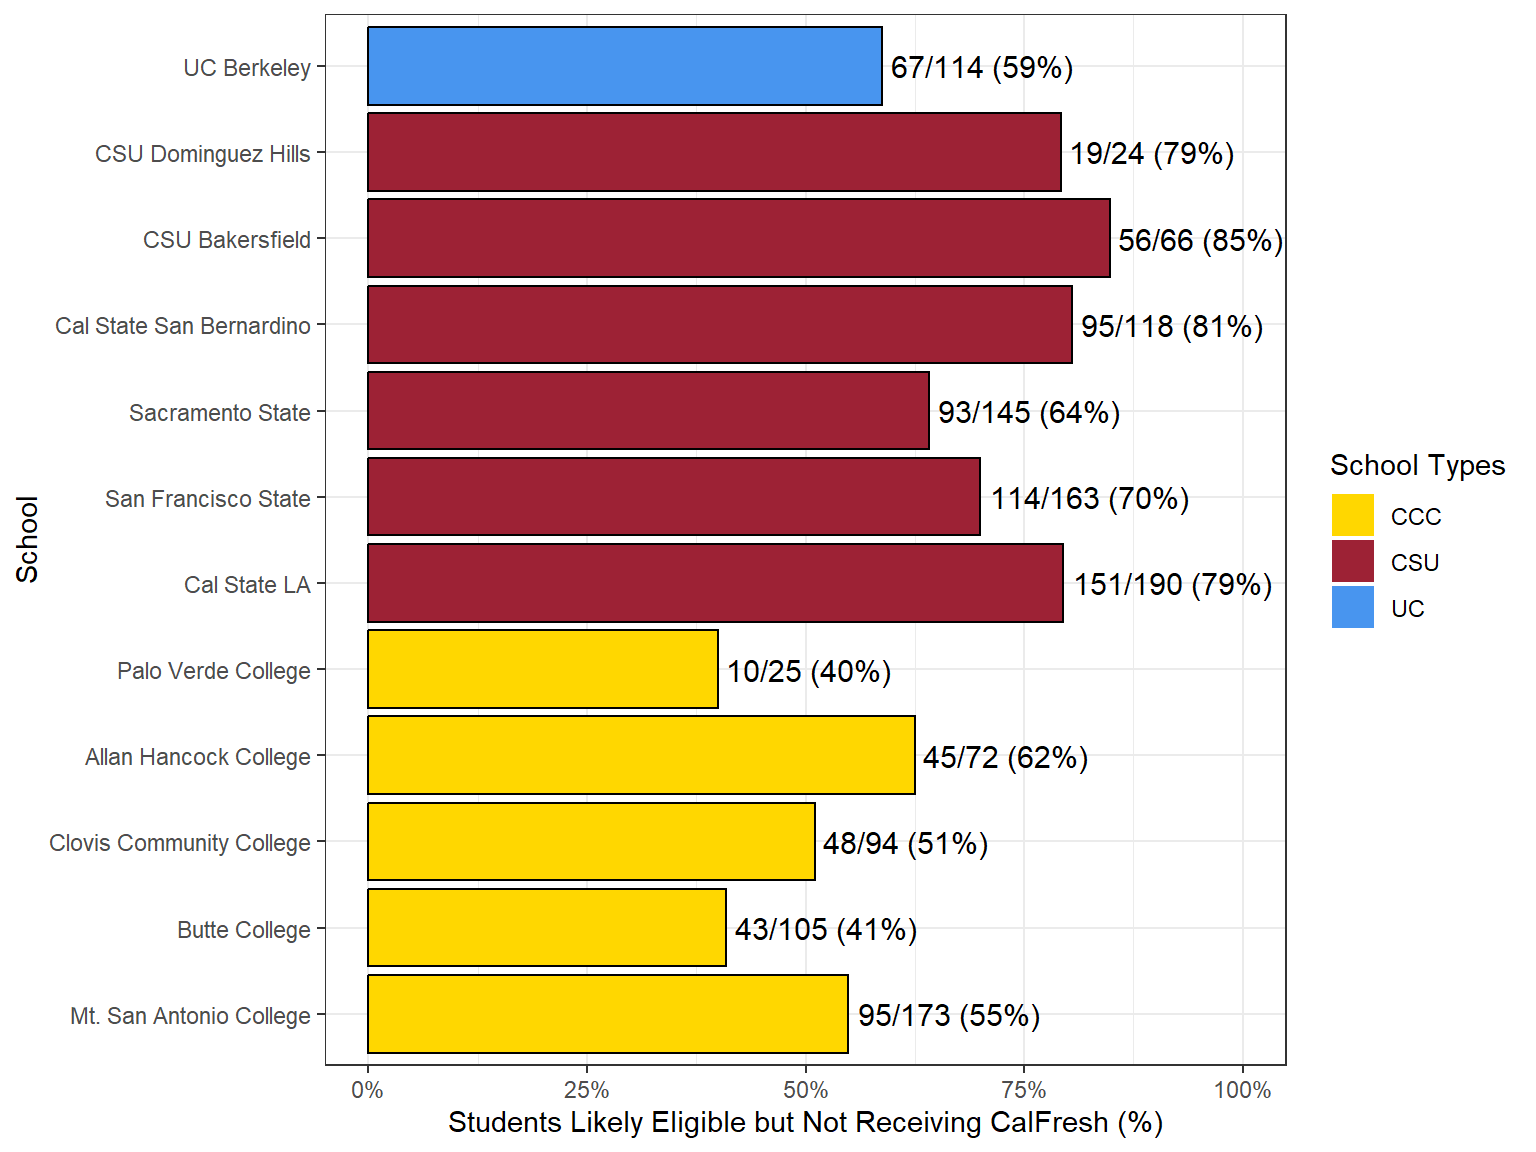
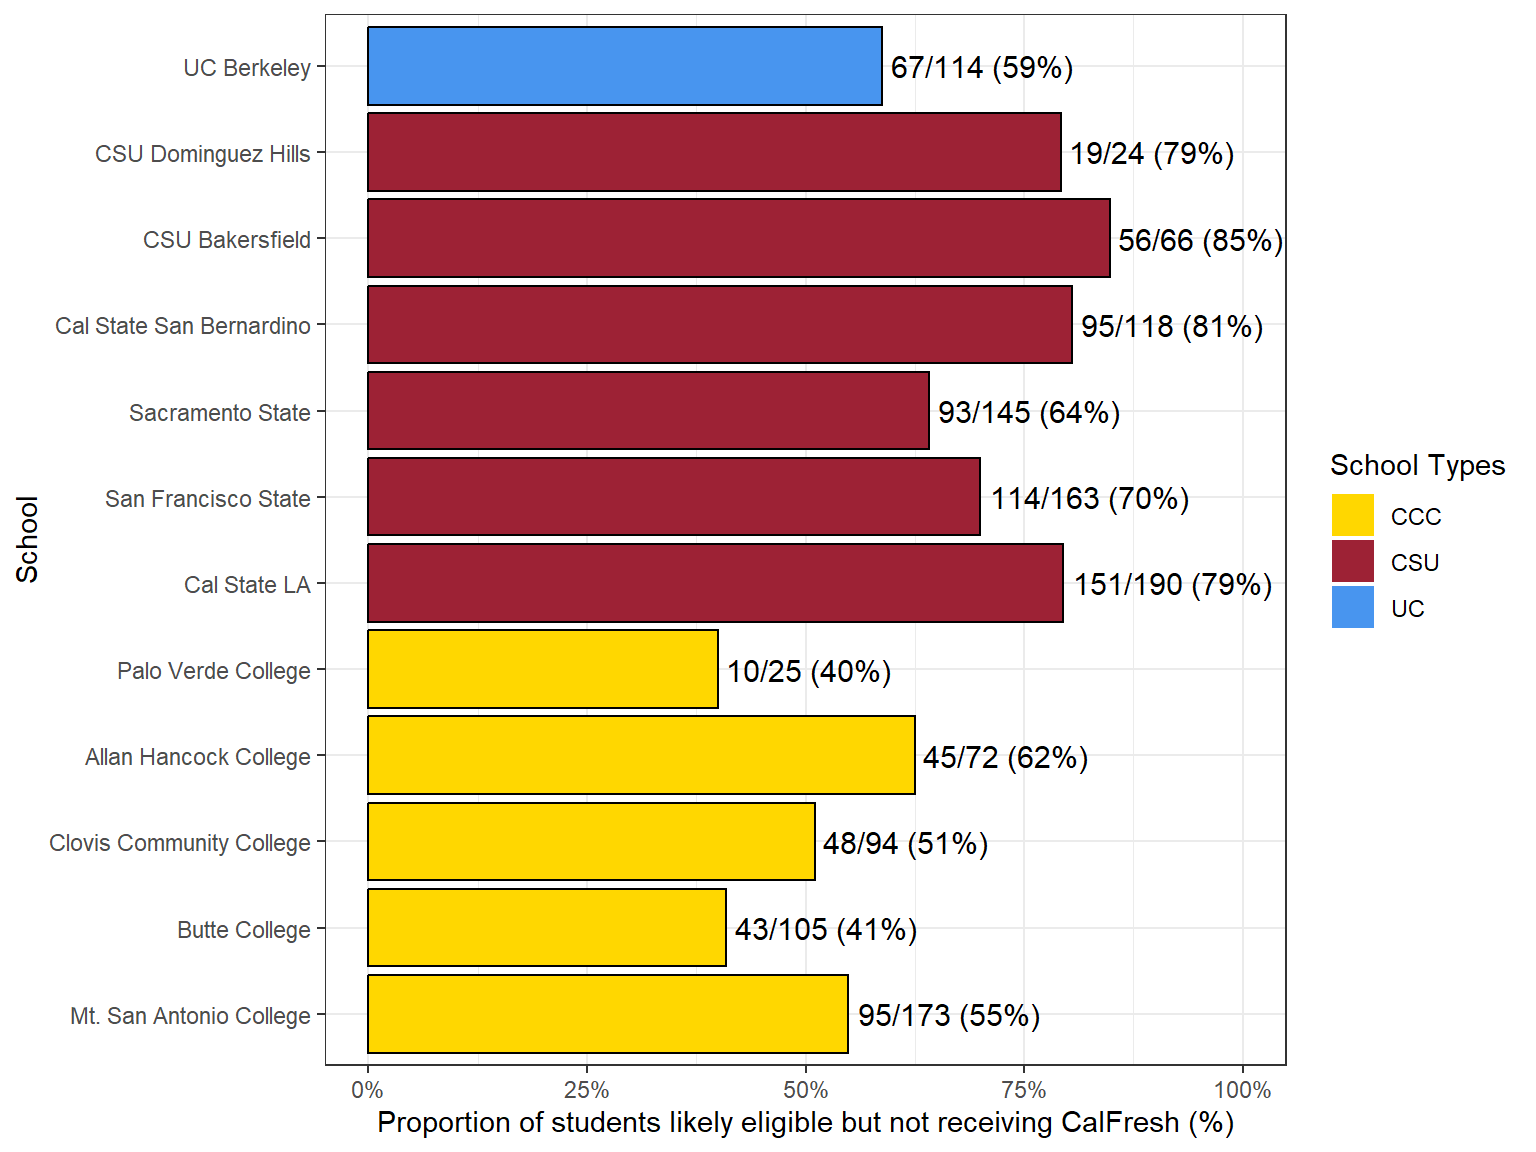
wordsmith

Changed region(s): [[0.25, 0.9688, 0.8125, 1.0]]

diff --git a/docs/eligible_not_receiving.html b/docs/eligible_not_receiving.html
@@ -184,17 +184,15 @@ ul.task-list li input[type="checkbox"] {
     <h2 id="toc-title">On this page</h2>
    
   <ul>
-  <li><a href="#college-campus" id="toc-college-campus" class="nav-link active" data-scroll-target="#college-campus">College Campus</a></li>
-  <li><a href="#students-likely-eligible-but-not-receiving-calfresh" id="toc-students-likely-eligible-but-not-receiving-calfresh" class="nav-link" data-scroll-target="#students-likely-eligible-but-not-receiving-calfresh">Students Likely Eligible but Not Receiving CalFresh</a></li>
-  <li><a href="#demographics" id="toc-demographics" class="nav-link" data-scroll-target="#demographics">Demographics</a>
-  <ul class="collapse">
+  <li><a href="#overview" id="toc-overview" class="nav-link active" data-scroll-target="#overview">Overview</a></li>
+  <li><a href="#college-campus" id="toc-college-campus" class="nav-link" data-scroll-target="#college-campus">College Campus</a></li>
+  <li><a href="#proportion-at-each-campus-not-receiving-calfresh" id="toc-proportion-at-each-campus-not-receiving-calfresh" class="nav-link" data-scroll-target="#proportion-at-each-campus-not-receiving-calfresh">Proportion at each campus not receiving CalFresh</a></li>
   <li><a href="#age" id="toc-age" class="nav-link" data-scroll-target="#age">Age</a></li>
   <li><a href="#gender-identity" id="toc-gender-identity" class="nav-link" data-scroll-target="#gender-identity">Gender Identity</a></li>
   <li><a href="#ethnicity-i.e.-identifying-with-hispanic-origin" id="toc-ethnicity-i.e.-identifying-with-hispanic-origin" class="nav-link" data-scroll-target="#ethnicity-i.e.-identifying-with-hispanic-origin">Ethnicity (i.e.&nbsp;Identifying with Hispanic Origin)</a></li>
   <li><a href="#first-generation" id="toc-first-generation" class="nav-link" data-scroll-target="#first-generation">First-Generation</a></li>
   <li><a href="#calfresh-food---barriers" id="toc-calfresh-food---barriers" class="nav-link" data-scroll-target="#calfresh-food---barriers">CalFresh Food - Barriers</a></li>
   <li><a href="#other-please-specify" id="toc-other-please-specify" class="nav-link" data-scroll-target="#other-please-specify">Other (Please Specify)</a></li>
-  </ul></li>
   </ul>
 </nav>
     </div>
@@ -227,8 +225,12 @@ figure.quarto-float-tbl figcaption.quarto-float-caption-top {
 }
 </style>
 </div>
-<p>This page looks at the subset of the 2,110 EOP/EOPS students that were determined to be likely eligible for CalFresh based on self-reported household size and income (see <a href="./CalFresh.html#calfresh-food-eligibility">CalFresh Food Eligibility</a> for more information). Of the 1341 students who were likely eligible for CalFresh, 1289 responded to a survey question inquiring about their knowledge/use of CalFresh benefits and 836 (64.9%) did not report currently using CalFresh as a college student. 55 of the 1341 students who were likely eligible for CalFresh either did not finish the survey or selected “Prefer not to answer” for this question.</p>
+<section id="overview" class="level2">
+<h2 data-anchor-id="overview">Overview</h2>
+<p>This page provides a brief description of characteristics of students that were determined to be likely eligible for CalFresh but not currently using it at the time of the survey. See the <a href="./CalFresh.html#calfresh-food-eligibility">CalFresh Food Eligibility</a> page for eligibility criteria and related survey question text.</p>
+<p>Of the 1341 students who were likely eligible for CalFresh, 1289 responded to a survey question inquiring about their knowledge/use of CalFresh benefits and 836 (64.9%) did not report currently using CalFresh as a college student. 55 of the 1341 students who were likely eligible for CalFresh either did not finish the survey or selected “Prefer not to answer” for this question.</p>
 <p>See <a href="./index.html#ref-md">Information on Missing Data</a></p>
+</section>
 <section id="college-campus" class="level2">
 <h2 data-anchor-id="college-campus">College Campus</h2>
 <div class="cell" data-layout-align="center">
@@ -250,8 +252,8 @@ Figure&nbsp;1: Survey Participants by Campus (n=1341, 100.0% of 1341 reporting).
 <p><strong>Summary: </strong> A total of 736 (54.9%), 488 (36.4%) and 117 (8.7%) of likely CalFresh eligible college students were enrolled in CSU, CCC and UC campuses, respectively. All college students were either in the Educational Opportunity Program (EOP) at the UC or CSU systems or in the Extended Opportunity Programs and Services (EOPS) in the CCC systems.</p>
 <p><br></p>
 </section>
-<section id="students-likely-eligible-but-not-receiving-calfresh" class="level2">
-<h2 data-anchor-id="students-likely-eligible-but-not-receiving-calfresh">Students Likely Eligible but Not Receiving CalFresh</h2>
+<section id="proportion-at-each-campus-not-receiving-calfresh" class="level2">
+<h2 data-anchor-id="proportion-at-each-campus-not-receiving-calfresh">Proportion at each campus not receiving CalFresh</h2>
 <div class="cell" data-layout-align="center">
 <div class="cell-output-display">
 <div id="fig-likely-eligible-not-receiving" class="quarto-float quarto-figure quarto-figure-center" data-fig-align="center">
@@ -266,29 +268,9 @@ Figure&nbsp;2: Survey Participants Likely Eligible for, but not Receiving CalFre
 </div>
 </div>
 </div>
-<p><strong>Survey Questions: </strong></p>
-<ul>
-<li><em>Which campus do you attend?</em></li>
-<li><em>The CalFresh eligibility variable was derived using self-reported household size and income (See <a href="./CalFresh.html#calfresh-food-eligibility">CalFresh Food Eligibility</a></em>)</li>
-<li><em>Please mark all the statements that apply to you.</em>
-<ul>
-<li><em>CalFresh (also known as Food Stamps or SNAP benefits)</em>
-<ul>
-<li>Never heard of it</li>
-<li>Heard of it, but never used it</li>
-<li>Used it in the past as a college student</li>
-<li>Used it before attending college</li>
-<li>Currently use as a college student</li>
-</ul></li>
-</ul></li>
-</ul>
-<p><strong>Additional Notes: </strong> Students who selected “Currently use as a college student” were marked as currently using CalFresh. Students who selected “Never heard of it”, “Heard of it, but never used it”, “Used it in the past as a college student”, or “Used it before attending college” were marked as not receiving CalFresh.</p>
 <p><strong>Summary: </strong> Across participating CSU campuses 75% (528/706) of likely CalFresh eligible college students reported not currently using CalFresh. These numbers were 51% (241/469) and 59% (67/114) for CCC an UC campuses, respectively.</p>
 <p><br></p>
 </section>
-<section id="demographics" class="level1">
-<h1>Demographics</h1>
-<p><em>Note: The below plots are looking at the subset of 836 students that were likely eligible for CalFresh, but not currently using it at the time of the survey.</em></p>
 <section id="age" class="level2">
 <h2 data-anchor-id="age">Age</h2>
 <div class="cell" data-layout-align="center">
@@ -454,8 +436,8 @@ Table&nbsp;2: Text Responses for Students who Selected ‘Other’
 </figcaption>
 <div aria-describedby="tbl-other-caption-0ceaefa1-69ba-4598-a22c-09a6ac19f8ca">
 <div class="cell-output-display">
-<div class="datatables html-widget html-fill-item" id="htmlwidget-29f80df008ff98d14ca9" style="width:100%;height:auto;"></div>
-<script type="application/json" data-for="htmlwidget-29f80df008ff98d14ca9">{"x":{"filter":"none","vertical":false,"data":[["1","2","3","4","5","6","7","8","9","10","11","12","13","14","15","16","17","18","19","20","21","22","23","24","25","26","27","28","29","30","31","32","33","34","35","36","37","38","39","40","41","42","43","44","45","46","47","48","49","50","51","52","53","54","55","56","57","58","59","60","61","62","63","64","65","66","67","68","69","70","71","72","73","74","75","76","77","78","79","80","81","82","83","84","85","86","87","88","89","90","91","92","93","94","95","96","97","98","99","100","101","102"],["Waiting for approval after submitting application","I was denied because my husbands monthly income is too high for a family of four for food stamps","They say income to high","I have used Calfresh","I heard that my status change if I use CalFresh, like I will be thought of as poor and not be able to sponsor a family member's immigration visa","I applied and did not qualify","I live with parents","Due to undocument parent, they don't want me to apply to CalFresh due to the verifications and documents they ask us which we don't have. I want to apply on my own now that I dorm.","I can’t apply on my own (need parents to do it for me and they don’t want to do it)","My dad receives CalFresh for my little brother, but in the application still reports us and I wouldn’t want to affects any of his current benefits","Tries to apply but the rules are wonky so my mom doesn't know if we will get accepted.","I had food stamps growing up, but once I started attending college and working part-time, they stop offering. So, I’m not sure if I can apply myself since my mom had an account with them.","My mom already has calfresh and I have tried applying before and it did not work out","My mom gets government assistance (I think CalFresh) but I don’t","My mom has it and says I can’t apply because she uses it and puts me under dependent","Said i didn’t qualify because I have no dependents","I try to apply but i have to be 23 but i am 18. I want my own because i am not home often","I did not know this was available on my campus.","they were not helpful and according to them i didnt benefit","Applied once but was told I did not qualify","My family doesn’t qualify for Calfresh","Wasn’t accepted due to application issue but will reapply","I have my application filled out, I just haven’t had time to turn it in","not eligible","I already applied, but I'm not eligible","Application pending","I reive it","I am not eligible","Do not qualify even though I need it","ineligible","i do have cal fresh","not approved","I do not qualify","I currently applied and I’m waiting for answer","Applied, never received an interview. Then denied.","Over income","I haven't really looked into it","I was told twice the application was done wrong","Didn't need it in the past but now that prices are up I can barely afford a weeks worth of groceries. I am currently in the aplication process","I applied but dropped the application and never reach out to, again","I have and use ca;fresh","I’m on the process of the application, I need to show some prove of documentation.","I have used CalFresh before my college journey. I wanted to apply now but the application process feels too much.","I do not meet the requieres age limit in my county will be applying again once I’m 22 which is the minimum age limit to have your own Cal Fresh case","Do not qualify","I applied but was rejected.","Heard of it but didn't know what it was or how it worked","I was told I make too much money","My petition sponsor will be made to pay back Calfresh","They only approved $9 a month for food. It wasn’t worth the whole hassle","They say I make to much money","I get child support that pays my car payment and if i get cal fresh they will take my child support and i wont have a car","Currently waiting in the application process","Because I’m a resident and not a citizen, that’s why I didn’t qualify","I’m using cal fresh","Still in Application Process","Not sure how to apply","I don’t know how to apply and I need help applying","I do","They said we are not eligible even though we don't make enough money.","I have applied and they told me I am not eligible.","I would like too apply for it, but I do not know how.","Parent has welfare and I live with them.","Never thought of applying","I applied but they told me that I was not eligible for it.","I get Calfresh and Medi-cal","I have been waiting to get a call, but have not received any.","application denied","Two members in my household already use it for food contribution.","Turned in an application, still waiting for a response.","I need to transfer my benefits from my previous county to this one, and I haven't gotten around to it yet","Don’t have anyone that can take me","I do not qualify","the worker of calfresh said that i dont qualify because i didn't have a job. so they didn't want me to get calfresh","I applied","I’m getting it already","they said i didn't quality even though my pay stubs show i don't make enough money to sustain myself","I have not sent my documents yet so it’s still in progress","I have Cal Fresh","My income is too high and I've been declined more than once","I'm waiting for my ebt card.","Don’t qualify","applied but got denied","I should leave it for those who really need it","I applied and was denied","I did not qualify for much, waste of time","They say that U make too much money","Waiting until I am 22, so I apply on my own since I rent with my parents.","would not qualify","Not 21, still living with parent","I've applied and they told me I was only eligible for fifteen dollars a month.","I applied. Currently in progress of trying to get it.","my application was denied","Have kids I use it","wasn't eligible due to income, although all my income goes to tuition and rent","My mom obtains cal fresh and i dont want to take from her and my siblings while im at college","I was not eligible","Recently applied","They haven’t gotten back to me after my application was sent, and I don’t have time to call in and ask.","I applied and was rejected from calfresh","I was denied even though I qualify, there is an issue with calfresh in my household and other members","I’ll be transferring out of Hancock in May so it feels like there’s no point in applying now"]],"container":"<table class=\"cell-border stripe\">\n  <thead>\n    <tr>\n      <th> <\/th>\n      <th>Other barriers<\/th>\n    <\/tr>\n  <\/thead>\n<\/table>","options":{"columnDefs":[{"className":"dt-left","targets":[0,1]},{"orderable":false,"targets":0},{"name":" ","targets":0},{"name":"Other barriers","targets":1}],"order":[],"autoWidth":false,"orderClasses":false},"selection":{"mode":"multiple","selected":null,"target":"row","selectable":null}},"evals":[],"jsHooks":[]}</script>
+<div class="datatables html-widget html-fill-item" id="htmlwidget-cef727297e275f12ba0f" style="width:100%;height:auto;"></div>
+<script type="application/json" data-for="htmlwidget-cef727297e275f12ba0f">{"x":{"filter":"none","vertical":false,"data":[["1","2","3","4","5","6","7","8","9","10","11","12","13","14","15","16","17","18","19","20","21","22","23","24","25","26","27","28","29","30","31","32","33","34","35","36","37","38","39","40","41","42","43","44","45","46","47","48","49","50","51","52","53","54","55","56","57","58","59","60","61","62","63","64","65","66","67","68","69","70","71","72","73","74","75","76","77","78","79","80","81","82","83","84","85","86","87","88","89","90","91","92","93","94","95","96","97","98","99","100","101","102"],["Waiting for approval after submitting application","I was denied because my husbands monthly income is too high for a family of four for food stamps","They say income to high","I have used Calfresh","I heard that my status change if I use CalFresh, like I will be thought of as poor and not be able to sponsor a family member's immigration visa","I applied and did not qualify","I live with parents","Due to undocument parent, they don't want me to apply to CalFresh due to the verifications and documents they ask us which we don't have. I want to apply on my own now that I dorm.","I can’t apply on my own (need parents to do it for me and they don’t want to do it)","My dad receives CalFresh for my little brother, but in the application still reports us and I wouldn’t want to affects any of his current benefits","Tries to apply but the rules are wonky so my mom doesn't know if we will get accepted.","I had food stamps growing up, but once I started attending college and working part-time, they stop offering. So, I’m not sure if I can apply myself since my mom had an account with them.","My mom already has calfresh and I have tried applying before and it did not work out","My mom gets government assistance (I think CalFresh) but I don’t","My mom has it and says I can’t apply because she uses it and puts me under dependent","Said i didn’t qualify because I have no dependents","I try to apply but i have to be 23 but i am 18. I want my own because i am not home often","I did not know this was available on my campus.","they were not helpful and according to them i didnt benefit","Applied once but was told I did not qualify","My family doesn’t qualify for Calfresh","Wasn’t accepted due to application issue but will reapply","I have my application filled out, I just haven’t had time to turn it in","not eligible","I already applied, but I'm not eligible","Application pending","I reive it","I am not eligible","Do not qualify even though I need it","ineligible","i do have cal fresh","not approved","I do not qualify","I currently applied and I’m waiting for answer","Applied, never received an interview. Then denied.","Over income","I haven't really looked into it","I was told twice the application was done wrong","Didn't need it in the past but now that prices are up I can barely afford a weeks worth of groceries. I am currently in the aplication process","I applied but dropped the application and never reach out to, again","I have and use ca;fresh","I’m on the process of the application, I need to show some prove of documentation.","I have used CalFresh before my college journey. I wanted to apply now but the application process feels too much.","I do not meet the requieres age limit in my county will be applying again once I’m 22 which is the minimum age limit to have your own Cal Fresh case","Do not qualify","I applied but was rejected.","Heard of it but didn't know what it was or how it worked","I was told I make too much money","My petition sponsor will be made to pay back Calfresh","They only approved $9 a month for food. It wasn’t worth the whole hassle","They say I make to much money","I get child support that pays my car payment and if i get cal fresh they will take my child support and i wont have a car","Currently waiting in the application process","Because I’m a resident and not a citizen, that’s why I didn’t qualify","I’m using cal fresh","Still in Application Process","Not sure how to apply","I don’t know how to apply and I need help applying","I do","They said we are not eligible even though we don't make enough money.","I have applied and they told me I am not eligible.","I would like too apply for it, but I do not know how.","Parent has welfare and I live with them.","Never thought of applying","I applied but they told me that I was not eligible for it.","I get Calfresh and Medi-cal","I have been waiting to get a call, but have not received any.","application denied","Two members in my household already use it for food contribution.","Turned in an application, still waiting for a response.","I need to transfer my benefits from my previous county to this one, and I haven't gotten around to it yet","Don’t have anyone that can take me","I do not qualify","the worker of calfresh said that i dont qualify because i didn't have a job. so they didn't want me to get calfresh","I applied","I’m getting it already","they said i didn't quality even though my pay stubs show i don't make enough money to sustain myself","I have not sent my documents yet so it’s still in progress","I have Cal Fresh","My income is too high and I've been declined more than once","I'm waiting for my ebt card.","Don’t qualify","applied but got denied","I should leave it for those who really need it","I applied and was denied","I did not qualify for much, waste of time","They say that U make too much money","Waiting until I am 22, so I apply on my own since I rent with my parents.","would not qualify","Not 21, still living with parent","I've applied and they told me I was only eligible for fifteen dollars a month.","I applied. Currently in progress of trying to get it.","my application was denied","Have kids I use it","wasn't eligible due to income, although all my income goes to tuition and rent","My mom obtains cal fresh and i dont want to take from her and my siblings while im at college","I was not eligible","Recently applied","They haven’t gotten back to me after my application was sent, and I don’t have time to call in and ask.","I applied and was rejected from calfresh","I was denied even though I qualify, there is an issue with calfresh in my household and other members","I’ll be transferring out of Hancock in May so it feels like there’s no point in applying now"]],"container":"<table class=\"cell-border stripe\">\n  <thead>\n    <tr>\n      <th> <\/th>\n      <th>Other barriers<\/th>\n    <\/tr>\n  <\/thead>\n<\/table>","options":{"columnDefs":[{"className":"dt-left","targets":[0,1]},{"orderable":false,"targets":0},{"name":" ","targets":0},{"name":"Other barriers","targets":1}],"order":[],"autoWidth":false,"orderClasses":false},"selection":{"mode":"multiple","selected":null,"target":"row","selectable":null}},"evals":[],"jsHooks":[]}</script>
 </div>
 </div>
 </figure>
@@ -477,7 +459,6 @@ Table&nbsp;2: Text Responses for Students who Selected ‘Other’
 </div>
 
 
-</section>
 </section>
 
 </main> <!-- /main -->
